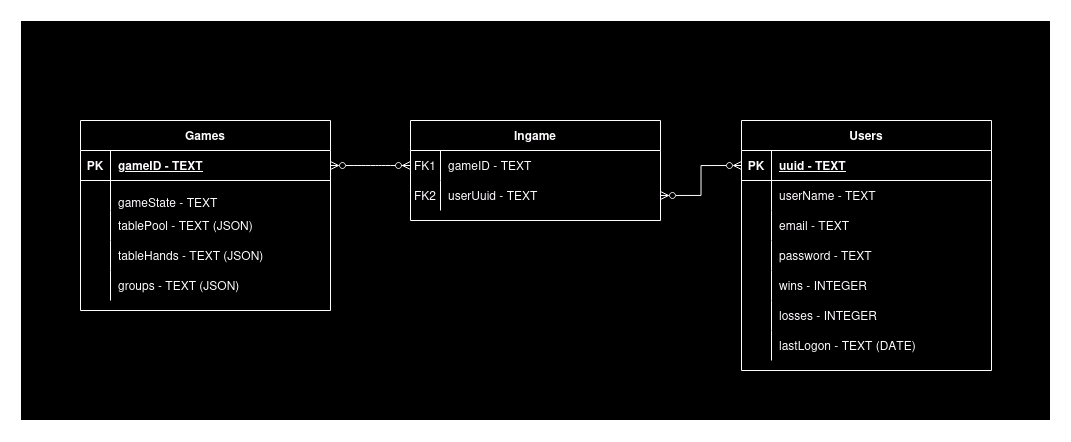
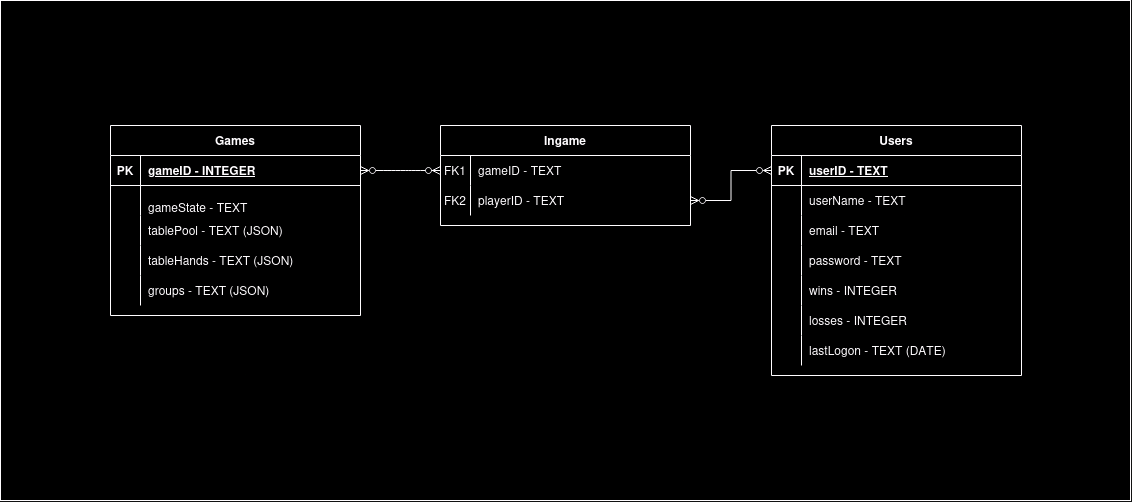
Updated ER diagram and added to server.py
Modified and fixed the ER diagram to be  more cohesive and reflect the actual table information I plan to implement. Additionally, updated server.py to create the tables in the database if they don't exist already. I also added logging functionality into server.py.

diff --git a/server.py b/server.py
@@ -31,7 +31,9 @@ crazy password (your stats..?), so that'll be my advice.
 import json
 import random
 import sqlite3
+import logging
 from uuid import uuid4
+from itertools import chain
 
 from rummikub import *
 
@@ -39,6 +41,8 @@ from rummikub import *
 DATA_FOLDER = "./data"
 # NOTE: please see above regarding credentials
 DATA_DB = f"{DATA_FOLDER}/data.db"
+LOGGING_FORMAT = "%(asctime)s — %(levelname)s — [%(filename)s] -> %(message)s"
+logger = logging.getLogger(__name__)
 
 """
 This is a brief outline of the database and what
@@ -52,7 +56,7 @@ Tables:
 #######################################################
 
 Users Table:
-- uuid [TEXT] (PRIMARY KEY)
+- uuserID [TEXT] (PRIMARY KEY)
 - userName [TEXT]
 - email [TEXT]
 - password [TEXT]
@@ -99,8 +103,75 @@ It's a join table to handle a many-to-many relationship between
 players and games.
 
 Ingame Table:
-- userUuid [str] (FOREIGN KEY)
+- playerID [str] (FOREIGN KEY)
 - gameID [str] (FOREIGN KEY)
 
 """
+
+
+def initialize_databases(database_connection):
+    """
+    Creates the database if there isn't one already
+    and adds the appropriate tables etc.
+    """
+
+    req_tables_and_queries = {
+        "games": """CREATE TABLE games(
+        gameID INTEGER,
+        gameState TEXT,
+        tablePool TEXT,
+        tableHands TEXT,
+        groups TEXT,
+        PRIMARY KEY(gameID DESC));""",
+
+        "users": """CREATE TABLE users(
+        userID TEXT,
+        userName TEXT,
+        email TEXT,
+        password TEXT,
+        wins INTEGER,
+        losses INTEGER,
+        lastLogon TEXT,
+        PRIMARY KEY(userID DESC));""",
+
+        "ingame": """CREATE TABLE ingame(
+        gameID INTEGER,
+        playerID TEXT,
+        FOREIGN KEY(gameID) REFERENCES games(gameID),
+        FOREIGN KEY(playerID) REFERENCES users(userID));""",
+    }
+
+    cur = database_connection.cursor()
+    tables_res = cur.execute("SELECT name FROM sqlite_master")
+
+    # "flattening" the table using itertools
+    # and chain.from_terable. This makes it all
+    # into a single list of items
+    tables = tables_res.fetchall()
+    temp_chain = chain.from_iterable(tables)
+    tables = list(temp_chain)
+
+    logger.info("Tables in database: %s", tables)
+
+    for tb in req_tables_and_queries:
+        # if the table doesn't exist,
+        # create it.
+        # the tables should absolutely be created
+        # after the very first run, hence the warnings later.
+
+        # note that executemany is probably more performant than
+        # multiple execute()s but this should only be called once.
+        # and have an executemany instead of many manual execute()s.
+        if tb not in tables:
+            logger.warning(msg=f"Table {tb} does not exist. Creating.")
+            cur.execute(req_tables_and_queries[tb])
+
+    database_connection.commit()
+    cur.close()
+
+
+if __name__ == "__main__":
+    logging.basicConfig(filename="server.log", level=logging.INFO, format=LOGGING_FORMAT)
+    con = sqlite3.connect(DATA_DB)
+    initialize_databases(con)
 
